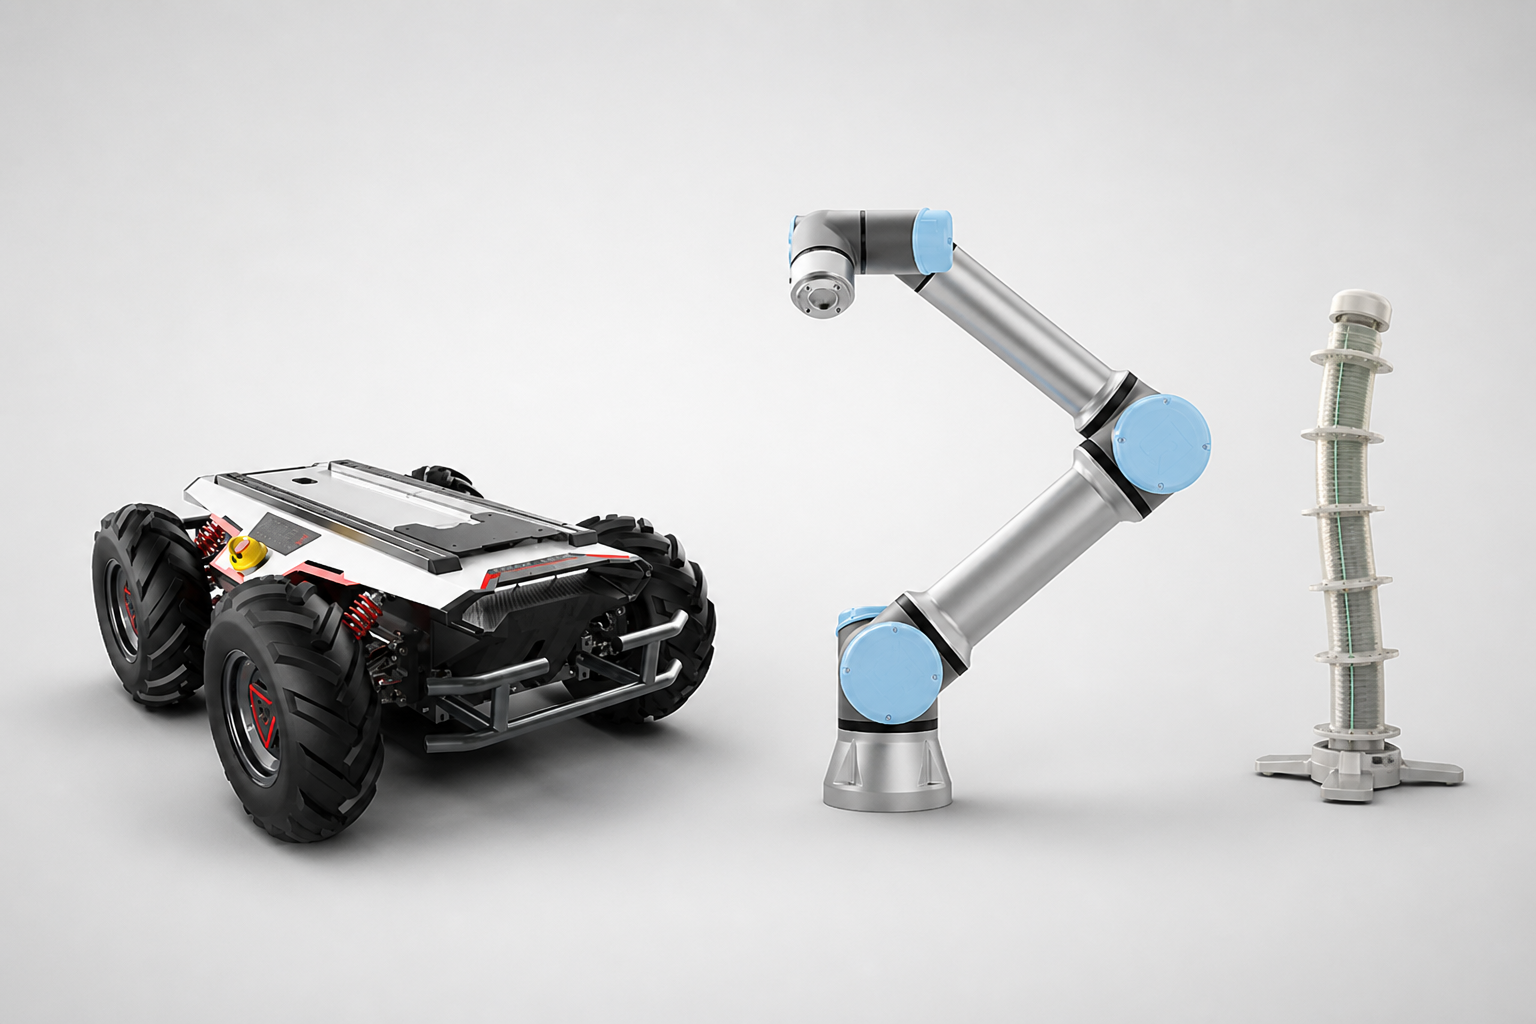
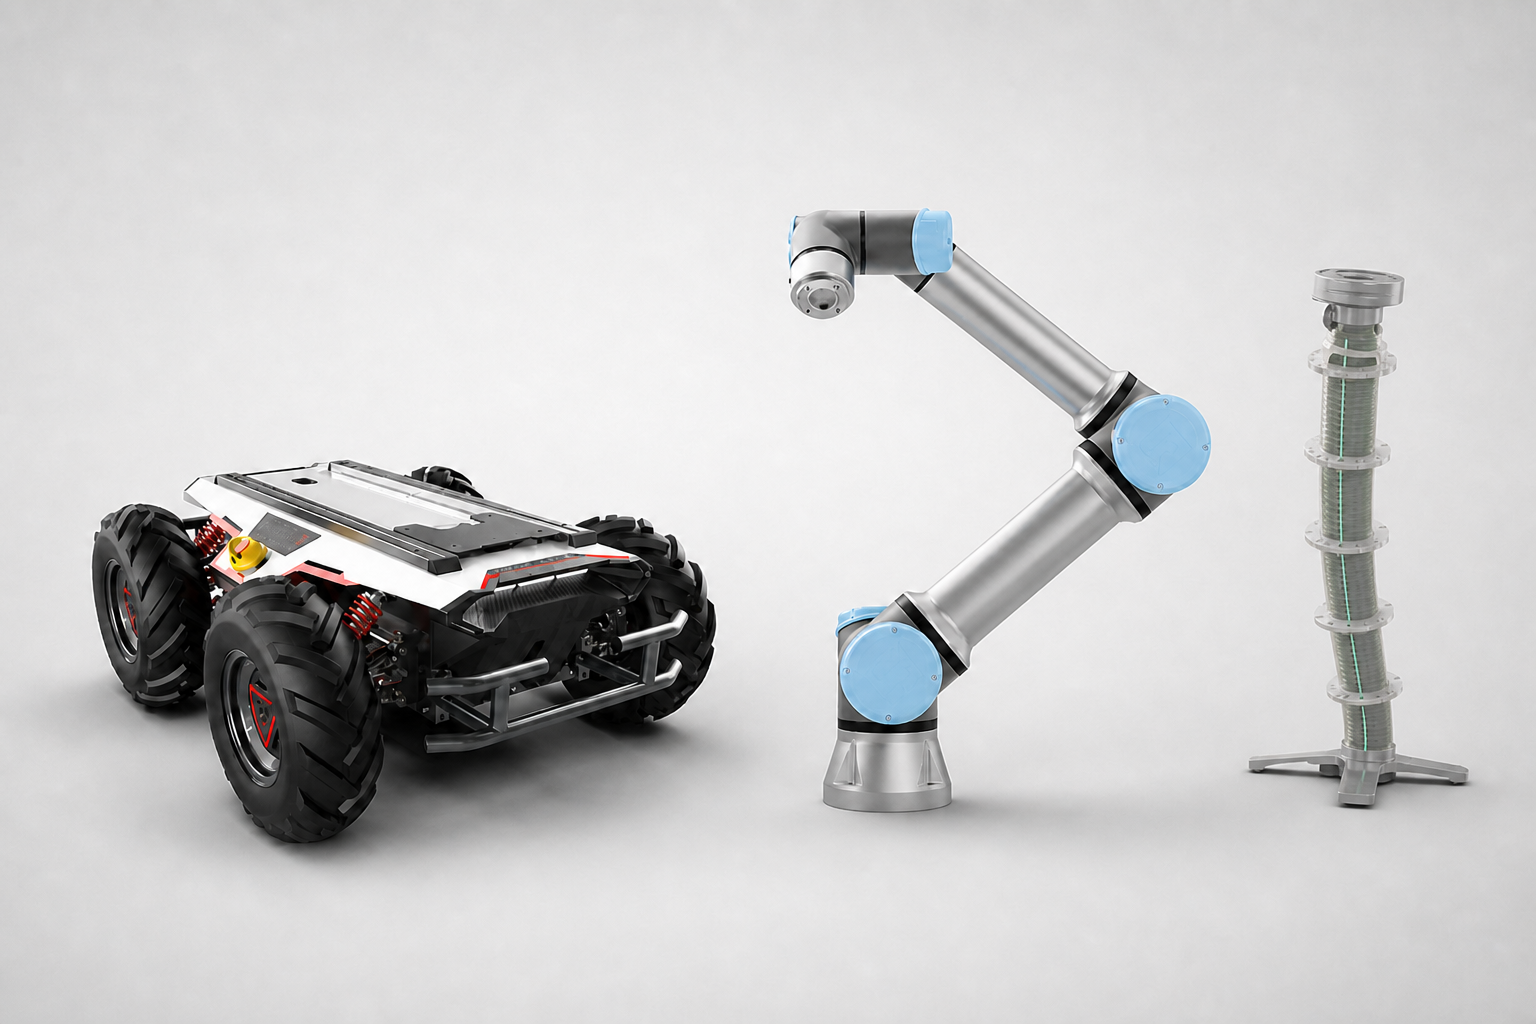
Update AGV project image and manipulator copy

diff --git a/src/content/projects.ts b/src/content/projects.ts
@@ -61,26 +61,26 @@ const projectItems: Project[] = [
   {
     slug: "agv-mobile-manipulation",
     priority: 2,
-    image: "soft.png",
+    image: "agv-manipulation-concept.png",
     videoLabel: {
       pt: "Conceito de manipulação móvel com AGV",
       en: "Mobile manipulation concept with AGV"
     },
     imageAlt: {
-      pt: "Manipulador soft usado como referência visual do projeto de manipulação móvel",
-      en: "Soft manipulator used as a visual reference for the mobile manipulation project"
+      pt: "Composição com robô terrestre Scout, braço UR7 e manipulador soft usado no projeto de manipulação móvel",
+      en: "Composite with a Scout ground robot, UR7 arm, and soft manipulator used in the mobile manipulation project"
     },
     title: {
-      pt: "AGV com manipulador robótico",
-      en: "AGV with robotic manipulator"
+      pt: "AGV com manipuladores robóticos",
+      en: "AGV with robotic manipulators"
     },
     summary: {
       pt: "Projeto de P&D em manipulação móvel envolvendo integração de software robótico, navegação autônoma, planejamento de movimento e controle com ROS 2.",
       en: "Mobile manipulation R&D project involving robotic software integration, autonomous navigation, motion planning, and control with ROS 2."
     },
     context: {
-      pt: "Experiência em desenvolvimento e integração de sistemas robóticos para aplicações reais usando uma plataforma AGV equipada com manipulador.",
-      en: "Experience in robotic system development and integration for real-world applications using an AGV platform equipped with a manipulator."
+      pt: "Experiência em desenvolvimento e integração de sistemas robóticos para aplicações reais usando uma plataforma AGV equipada com dois manipuladores.",
+      en: "Experience in robotic system development and integration for real-world applications using an AGV platform equipped with two manipulators."
     },
     contribution: {
       pt: [

diff --git a/src/content/experience.ts b/src/content/experience.ts
@@ -30,12 +30,12 @@ export const experiences: Experience[] = [
     },
     highlights: {
       pt: [
-        "Desenvolvimento e integração de software robótico para uma plataforma AGV equipada com manipulador.",
+        "Desenvolvimento e integração de software robótico para uma plataforma AGV equipada com dois manipuladores.",
         "Implementação de fluxos com ROS 2, C++, Python, Linux, navegação autônoma, SLAM, motion planning e MoveIt 2.",
         "Contribuição na concepção, experimentação e validação de soluções de manipulação móvel para aplicações reais."
       ],
       en: [
-        "Developed and integrated robotic software for an AGV platform equipped with a robotic manipulator.",
+        "Developed and integrated robotic software for an AGV platform equipped with two manipulators.",
         "Implemented workflows with ROS 2, C++, Python, Linux, autonomous navigation, SLAM, motion planning, and MoveIt 2.",
         "Contributed to the design, experimentation, and validation of mobile manipulation solutions for real-world applications."
       ]
